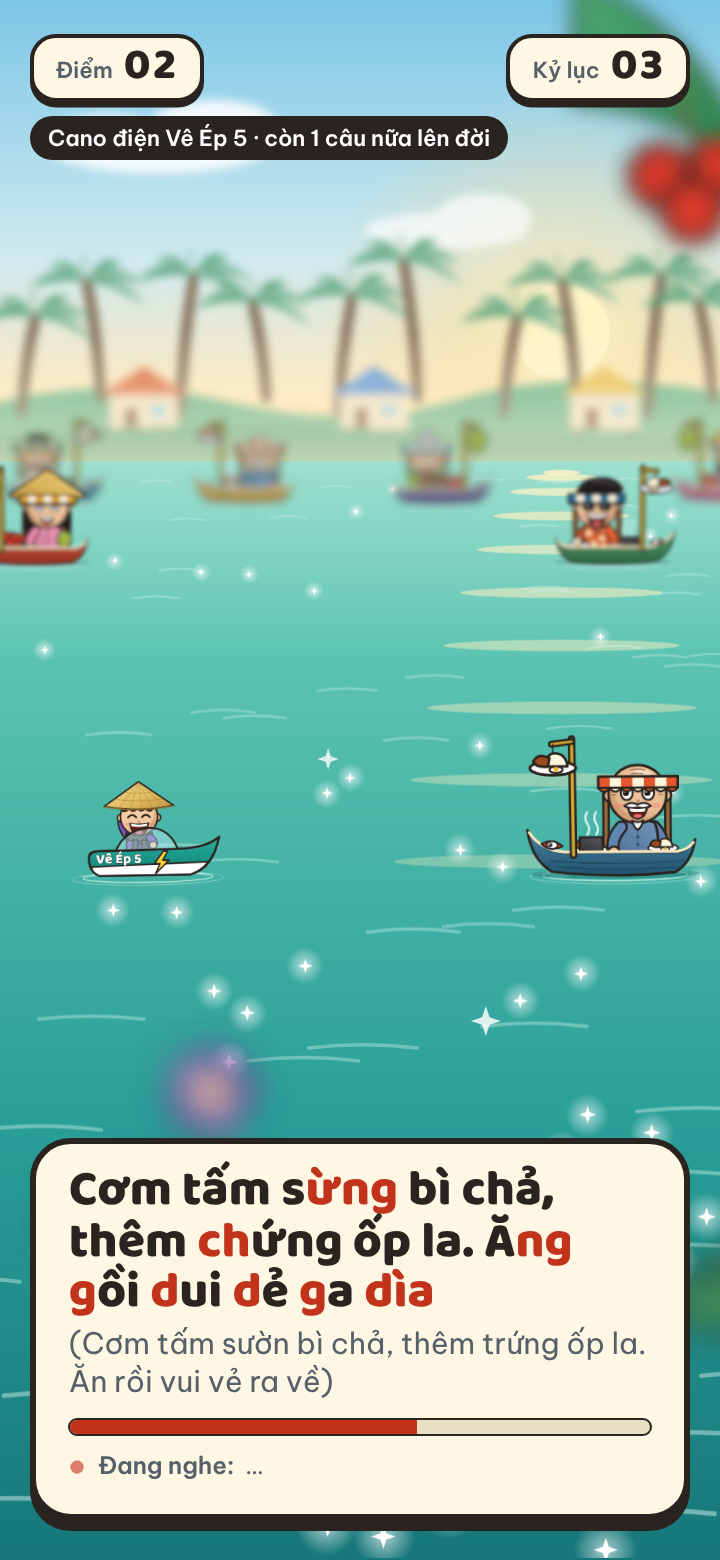
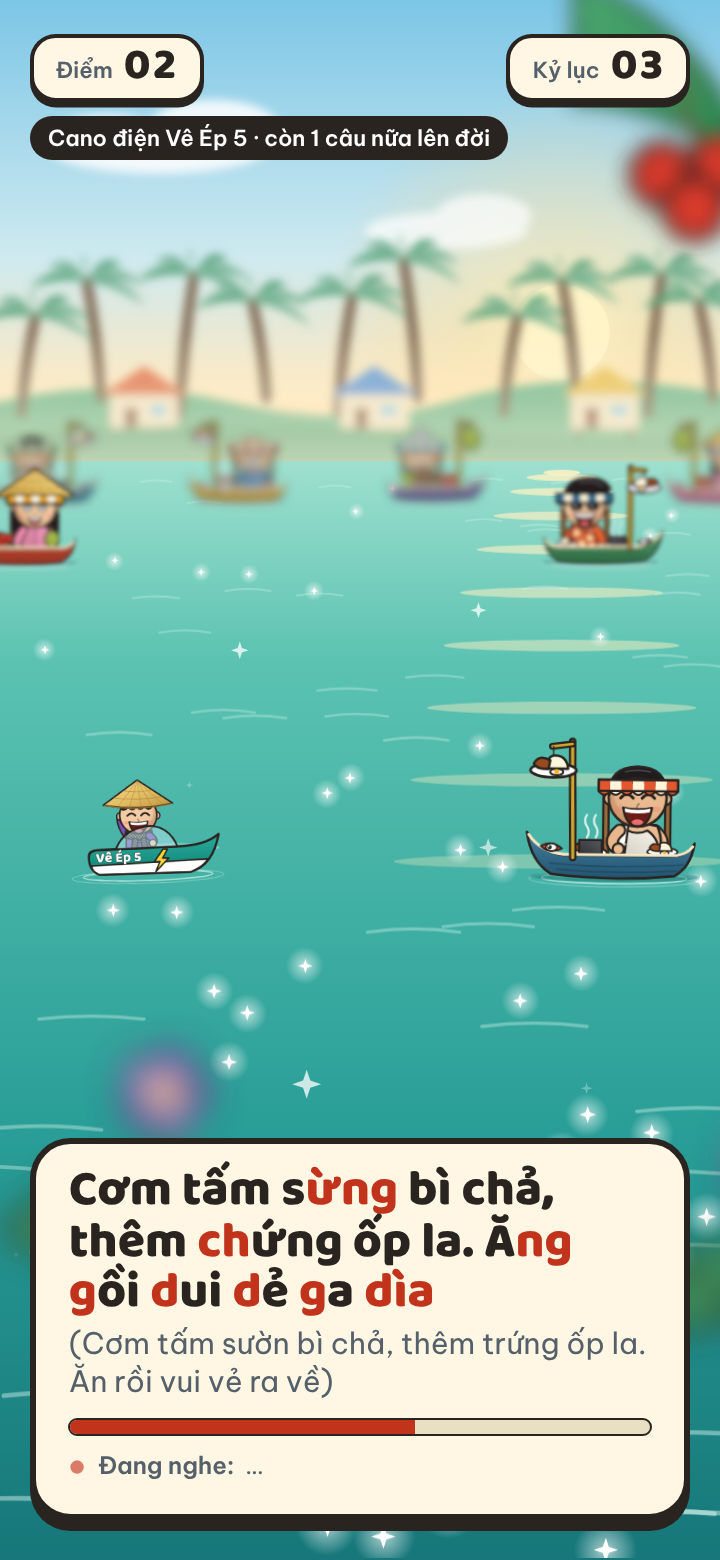
Chờ người đang đọc dở câu (bù độ trễ nhận giọng trên iPhone), chọn câu lùi từng mức
Claude-Session: https://claude.ai/code/session_017jqyeXqtiS2mnfjbSpzNZe

diff --git a/src/game/game.js b/src/game/game.js
@@ -107,7 +107,7 @@ export class Game extends EventTarget {
     do { vendor = this.vendors[Math.floor(this.rnd() * this.vendors.length)]; } while (vendor === this.lastVendor && this.vendors.length > 1);
     this.lastVendor = vendor;
     const T = roundTime(phrase, this.passed);
-    this.round = { id: ++this.roundSeq, phrase, T, grace: CONFIG.TIME_GRACE, t: 0, level: levelForPasses(this.passed) };
+    this.round = { id: ++this.roundSeq, phrase, T, grace: CONFIG.TIME_GRACE, t: 0, level: levelForPasses(this.passed), hold: 0, partialK: 0, partialAt: -1 };
     const key = this.manifest.stallMap[phrase.stall] || 'stall_fruit';
     const s = this.stallScale(key);
     this.stall = { key, vendor, face: 'normal', p: 0, x: 0, y: this.laneY, s, rot: 0, phase: this.rnd() * 6 };
@@ -137,6 +137,13 @@ export class Game extends EventTarget {
   }
 
   // Gọi từ bộ nhận giọng (src/speech/voice.js) khi đọc khớp câu. Trả true nếu được nhận (kể cả trong ân hạn).
+  // Giọng nói báo tiến độ: đã đọc đúng k chữ đầu của câu (k tăng thì ghi lại thời điểm).
+  notePartial(roundId, k) {
+    const r = this.round;
+    if (!r || r.id !== roundId || this.state !== 'playing') return;
+    if (k > r.partialK) { r.partialK = k; r.partialAt = this.time; }
+  }
+
   onPhraseMatched(roundId, { dialect = false } = {}) {
     if (this.state !== 'playing' || this.paused || !this.round || roundId !== this.round.id) return false;
     const gained = CONFIG.SCORE_PASS + (dialect ? CONFIG.SCORE_DIALECT_BONUS : 0);
@@ -185,7 +192,12 @@ export class Game extends EventTarget {
 
     if (this.state === 'playing') {
       const r = this.round;
-      r.t += dt;
+      // Đang đọc đúng dần mà máy nghe (iPhone) trả chữ chậm: trong lúc ân hạn, ghe hàng dừng sát mũi chờ thêm
+      // tối đa HOLD_MAX giây, chỉ khi đã đọc đúng ≥ HOLD_MIN_FRAC số chữ và vừa có chữ mới trong HOLD_FRESH giây.
+      const words = r.phrase.phienAm.trim().split(/\s+/).length;
+      const holding = r.t >= r.T && r.hold < CONFIG.HOLD_MAX && r.partialK >= Math.ceil(words * CONFIG.HOLD_MIN_FRAC)
+        && this.time - r.partialAt < CONFIG.HOLD_FRESH;
+      if (holding) r.hold += dt; else r.t += dt;
       this.placeStall();
       if (r.t / r.T >= CONFIG.SHOCK_AT && this.stall.face === 'normal') this.stall.face = 'shock';
       if (r.t >= r.T + r.grace) this.doCrash();

diff --git a/src/config.js b/src/config.js
@@ -13,6 +13,11 @@ export const CONFIG = {
   TIME_MIN_FACTOR: 0.6,     // không nhanh hơn 60% thời gian gốc (khoảng sau 33 ghe)
   TIME_FLOOR_BASE: 1.6,     // SÀN cứng: không dưới 1,6s + 0,22s/chữ ở cấp cao nhất
   TIME_FLOOR_PER_WORD: 0.22,
+  // Chờ người đang đọc (máy nghe iPhone trả chữ trễ): ghe hàng dừng sát mũi tối đa HOLD_MAX giây
+  // nếu đã đọc đúng >= HOLD_MIN_FRAC số chữ và vừa có chữ đúng mới trong HOLD_FRESH giây.
+  HOLD_MAX: 1.2,
+  HOLD_MIN_FRAC: 0.5,
+  HOLD_FRESH: 1.0,
   TIME_GRACE: 0.4,         // giây ân hạn sau khi thanh thời gian hết, trước khi hai ghe chạm
 
   // ---- level câu theo số ghe đã qua: qua >= mốc thì mở level kế (level 5 chưa có câu -> lấy level cao nhất có sẵn)

diff --git a/src/game/phrases.js b/src/game/phrases.js
@@ -31,7 +31,8 @@ export class PhrasePicker {
     const have = this.list.filter((p) => p.level <= want).map((p) => p.level);
     if (have.length) want = Math.max(...have);
     let pool = this.list.filter((p) => p.level === want && !this.recent.includes(p.id));
-    if (!pool.length) pool = this.list.filter((p) => p.level <= lv && !this.recent.includes(p.id));
+    // hết câu mới ở mức này -> lùi dần xuống mức sát dưới (không rơi thẳng về câu dễ)
+    for (let l = want - 1; !pool.length && l >= 1; l--) pool = this.list.filter((p) => p.level === l && !this.recent.includes(p.id));
     if (!pool.length) pool = this.list.slice();
     const p = pool[Math.floor(this.rnd() * pool.length)];
     this.recent.push(p.id);

diff --git a/src/speech/voice.js b/src/speech/voice.js
@@ -31,6 +31,8 @@ export class VoiceControl {
       this.done = g.onPhraseMatched(this.roundId, { dialect: m.dialect });
       return;
     }
-    this.panel.setProgress(matchProgress(words, this.phrase));
+    const k = matchProgress(words, this.phrase);
+    this.panel.setProgress(k);
+    if (g.notePartial) g.notePartial(this.roundId, k);
   }
 }

diff --git a/dev/tools/qa_hold.py b/dev/tools/qa_hold.py
@@ -1,0 +1,33 @@
+"""Kiểm tra 'chờ người đang đọc': đọc đúng nửa câu sát lúc hết giờ, chữ cuối tới trễ ~0,9s vẫn nhảy; đứng im thì vẫn đụng."""
+import os, sys
+sys.path.insert(0, os.path.dirname(__file__))
+import qa_b4 as B
+from playwright.sync_api import sync_playwright
+ev, say = B.ev, B.say
+srv = B.server()
+try:
+    with sync_playwright() as p:
+        b = p.chromium.launch()
+        for case in ('hold', 'idle'):
+            ctx, pg, errs = B.open_page(b)
+            B.start(pg)
+            r = ev(pg, '({T: game.round.T, pa: game.round.phrase.phienAm})')
+            words = r['pa'].split()
+            # chờ tới gần hết giờ
+            pg.wait_for_timeout(int((r['T'] - 0.15) * 1000))
+            if case == 'hold':
+                half = ' '.join(words[:max(1, (len(words) + 1) // 2)]) if len(words) > 1 else ''
+                if half: say(pg, half)
+                pg.wait_for_timeout(900)
+                say(pg, r['pa'], final=True)
+                pg.wait_for_timeout(300)
+                res = ev(pg, 'game.state')
+                B.ok(res in ('jumping', 'playing') and ev(pg, 'game.passed') == 1, f'hold: chữ cuối trễ 0,9s vẫn qua (state={res}, words={len(words)})')
+            else:
+                pg.wait_for_timeout(1500)
+                B.ok(ev(pg, 'game.state') in ('crash', 'over'), f'idle: không đọc thì vẫn đụng ({ev(pg, "game.state")})')
+            ctx.close()
+        b.close()
+finally:
+    srv.terminate()
+print('LỖI' if B.problems else 'OK hết')

diff --git a/dev/tools/qa_b5.py b/dev/tools/qa_b5.py
@@ -129,7 +129,7 @@ def run_vp(b, w, h):
     G = geom(pg)
     ok(G['lane'] + 14 < G['uiBottom'], f'câu dài: khung chữ (y={G["uiBottom"]:.0f}) không đè làn (y={G["lane"]:.0f})')
     lvl = ev(pg, '[0,2,3,6,7,12,13,19,20,30].map((n) => [n, game.picker.pick(n).level])')
-    ok(all(l <= 4 for _, l in lvl), f'mức 5 chưa có câu → vẫn chọn được ({lvl})')
+    ok(all(l >= 1 for _, l in lvl) and any(l == 5 for _, l in lvl), f'chọn được câu mọi mức, có mức 5 ({lvl})')
     thaw(pg)
     # ---- 6. thua không phá kỷ lục: bảng kết quả có mặt mếu
     wait_state(pg, 'over', 15000); pg.wait_for_timeout(400)

diff --git a/dev/docs/spec.md b/dev/docs/spec.md
@@ -61,3 +61,5 @@ Link chơi: https://lethienkhoi.github.io/cho-noi-mien-tay/ · Code: github.com/
    - Mức câu theo số ghe đã qua: 0–2 mức 1, 3–6 mức 2, 7–12 mức 3, 13–19 mức 4, 20+ mức 5 (chưa có câu mức 5 → lấy mức cao nhất có sẵn). 20% lấy câu mức thấp hơn cho đỡ ngộp. (Tính theo số ghe qua, không theo điểm, vì điểm có thưởng +2 làm mức nhảy quá nhanh — CHỜ KHÔI CHỐT.)
 6. B6: độ khó theo level, điểm, kỷ lục, hiệu ứng lên đời 6 cấp.
 7. B7: thử trên iPhone và Android thật, tối ưu.
+
+- 2026-11-17 (Khôi thử iPhone, nhận giọng chậm): trả thời gian về 1,6s + 0,55s/chữ, giảm tới 60%; ân hạn 0,4s; thêm "chờ người đang đọc": đã đọc đúng ≥ nửa câu và vừa có chữ đúng mới trong 1s thì ghe hàng dừng sát mũi chờ thêm tối đa 1,2s.
